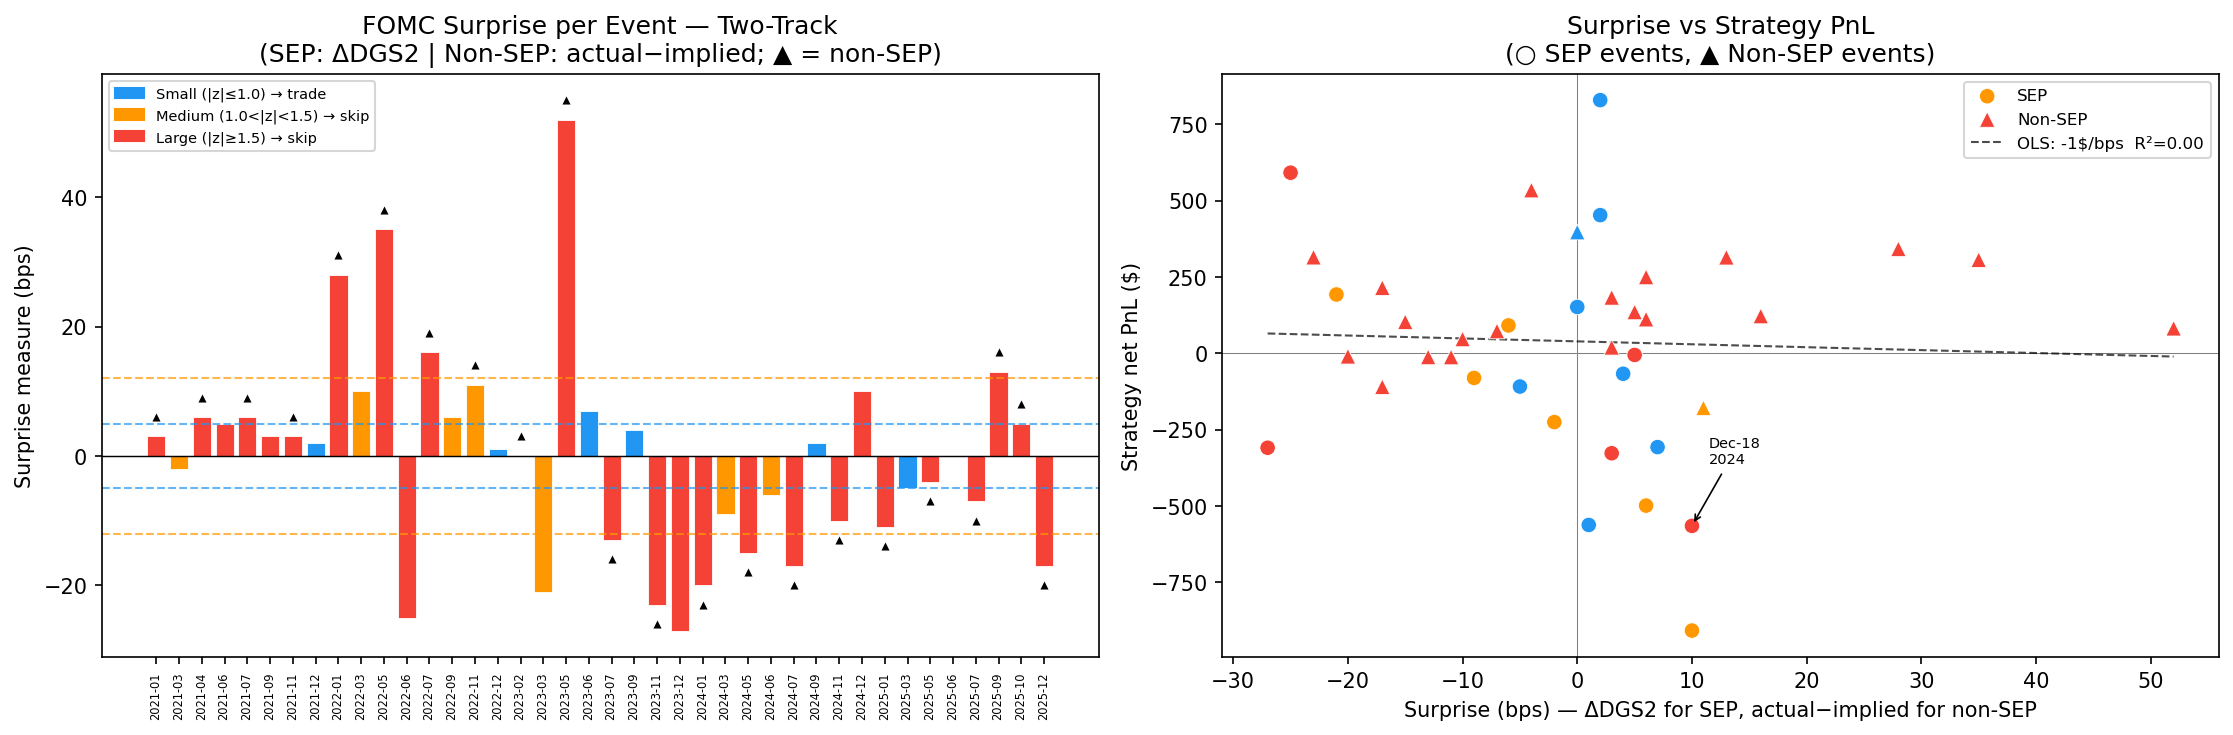
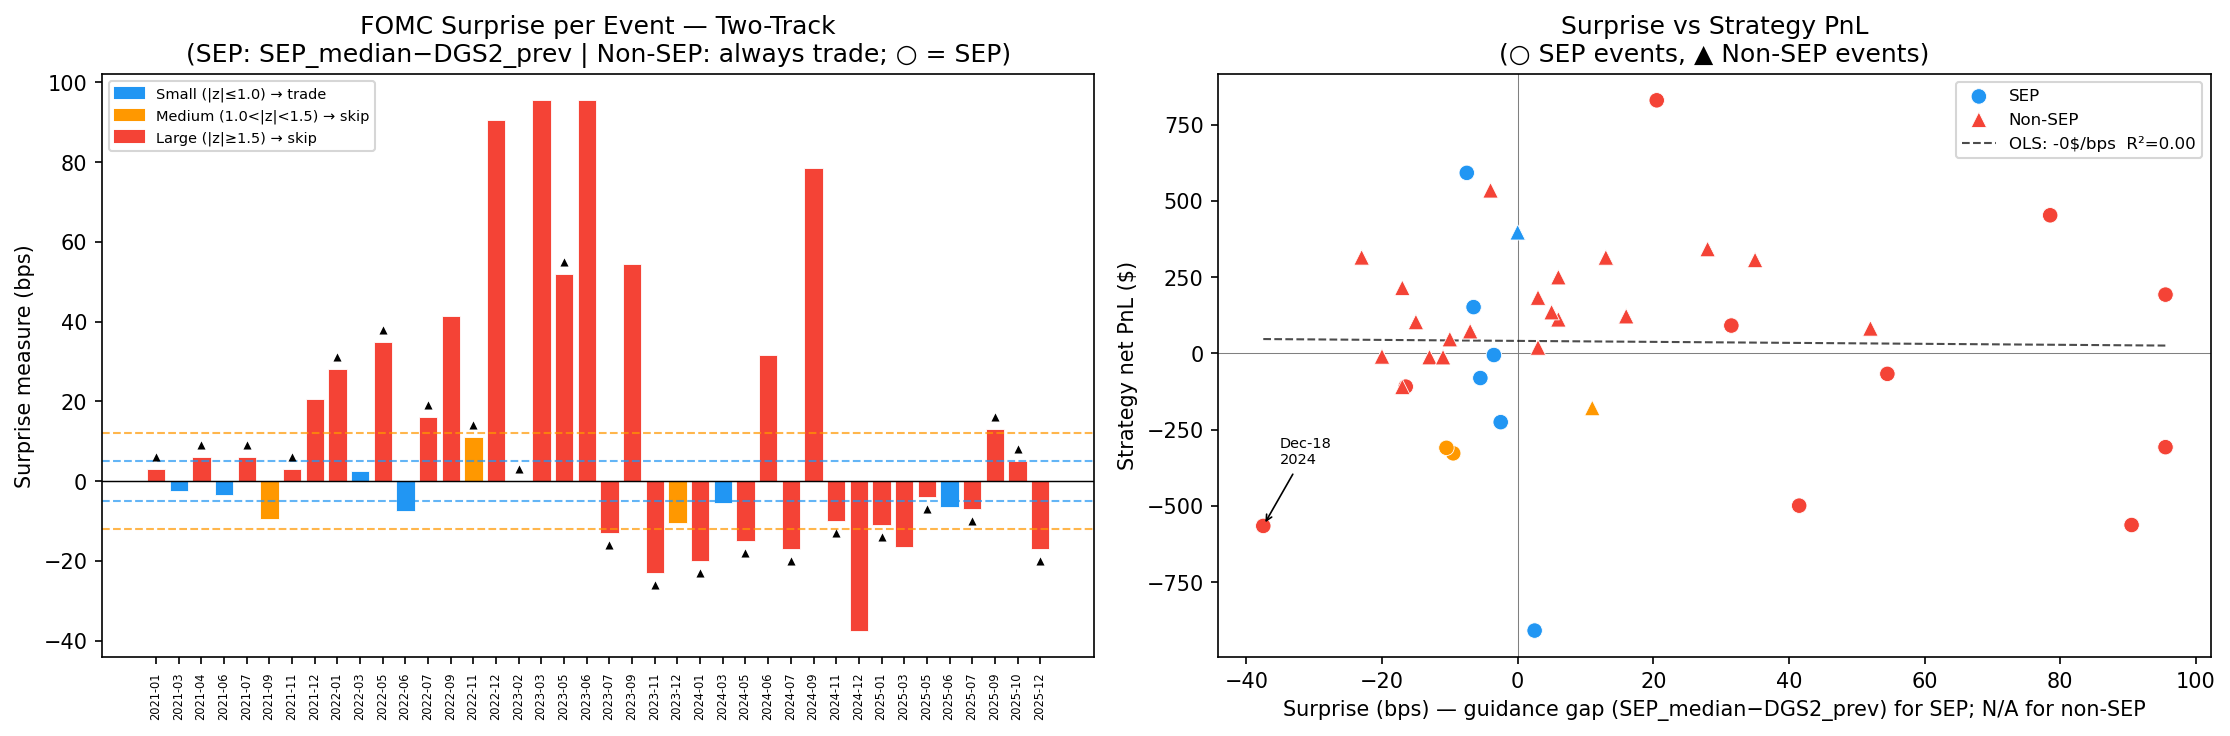
Use guidance gap (SEP_median - DGS2_prev) as real-time SEP filter
Replace delta-DGS2 with guidance gap observable at 14:01.
Delete SEP-vs-OIS methodology section; update all result numbers.
Two-track: N=28, Sharpe=1.86, p=0.073. Non-SEP: Sharpe=3.95, p=0.001.

diff --git a/FOMC/code/fomc_ois_filter.py b/FOMC/code/fomc_ois_filter.py
@@ -1,14 +1,15 @@
 """
 FOMC Rate-Path Surprise Filter — Two-Track Framework
 ======================================================
-SEP days (Mar/Jun/Sep/Dec):  z = (DGS2_fomc - DGS2_prev)*100 / roll_std_DGS2
-    DGS2 captures both the rate decision AND dot-plot forward guidance.
+SEP days (Mar/Jun/Sep/Dec):  z = (SEP_median - DGS2_prev)*100 / max(roll_std_DGS2, 8 bps)
+    SEP_median  = dot-plot year-end FFR median, released with the statement at 14:00
+    DGS2_prev   = 2Y Treasury yield at prior-day close (FRED, published ~17:00 day before)
+    Both inputs are available at 14:01 when the trade fires. DGS2_fomc (end-of-day on
+    meeting date, published 17:00) is recorded for reference but NOT used in the filter.
+    Floor of 8 bps on rolling vol prevents ZLB-era (2021) z-score inflation.
 
-Non-SEP days: z = (actual_move_bps - implied_move_bps) / roll_std_DGS1MO
-    implied_move_bps = (DGS1MO_prev - EFFR_prev) * 100
-    actual_move_bps  = rate decision from statement (available at 14:01)
-
-Both tracks use the same |z| <= 1.0 threshold to decide whether to trade.
+Non-SEP days: always trade (no filter).
+    The rate decision alone is the only new information; it is almost always fully priced.
 """
 import matplotlib
 matplotlib.use('Agg')
@@ -21,12 +22,13 @@ import urllib.request
 from pathlib import Path
 from scipy import stats
 
-Path('figures').mkdir(exist_ok=True)
+Path('FOMC/figures').mkdir(exist_ok=True)
 DATA_DIR = Path('data/raw')
 ET       = 'America/New_York'
 BOOK_COLS    = ['bid_px_00','ask_px_00','bid_sz_00','ask_sz_00']
-HOLD_MINS    = 15
-NOTIONAL     = 100_000
+HOLD_MINS      = 15
+NOTIONAL       = 100_000
+SEP_FLOOR_STD  = 8.0   # bps — floor on rolling DGS2 vol; prevents ZLB inflation
 
 # ── FOMC / Control date lists ─────────────────────────────────────────────────
 FOMC_2021 = ['2021-01-27','2021-03-17','2021-04-28','2021-06-16',
@@ -201,25 +203,30 @@ for fomc_str in ALL_FOMC:
 
     # ── Surprise measure ─────────────────────────────────────────────────────
     if fomc_str in SEP_DATES:
-        # SEP track: DGS2 change captures rate decision + dot-plot path surprise
+        # SEP track: guidance gap = SEP_median - DGS2_prev (both available at 14:01)
+        # DGS2_fomc is end-of-day (published ~17:00 on meeting date) — recorded for
+        # reference only; not used in filter to preserve real-time discipline.
         if dgs2 is not None:
             prev_idx  = dgs2.index[dgs2.index < fomc_ts]
-            fomc_rate = dgs2.get(fomc_ts, np.nan)
-            if len(prev_idx) > 0 and not np.isnan(fomc_rate):
-                prev_rate        = dgs2[prev_idx[-1]]
-                raw_bps          = (fomc_rate - prev_rate) * 100
-                vol              = roll_std_dgs2.get(fomc_ts, np.nan)
-                z_score          = raw_bps / vol if (not np.isnan(vol) and vol > 0) else np.nan
-                rec['dgs2_prev']     = round(prev_rate, 3)
-                rec['dgs2_fomc']     = round(fomc_rate, 3)
-                rec['surprise_bps']  = round(raw_bps, 1)
-                rec['roll_std_bps']  = round(vol, 2) if not np.isnan(vol) else np.nan
-                rec['z_score']       = round(z_score, 2) if not np.isnan(z_score) else np.nan
+            fomc_rate = dgs2.get(fomc_ts, np.nan)   # informational only
+            if len(prev_idx) > 0:
+                prev_rate  = dgs2[prev_idx[-1]]
+                sep_median = SEP_DATA[fomc_str]
+                raw_bps    = (sep_median - prev_rate) * 100   # guidance gap, bps
+                vol_raw    = roll_std_dgs2.get(prev_idx[-1], np.nan)  # prev-day vol
+                vol        = max(vol_raw, SEP_FLOOR_STD) if not np.isnan(vol_raw) else SEP_FLOOR_STD
+                z_score    = raw_bps / vol
+                rec['dgs2_prev']    = round(prev_rate, 3)
+                rec['dgs2_fomc']    = round(fomc_rate, 3) if not np.isnan(fomc_rate) else np.nan
+                rec['sep_median']   = round(sep_median, 3)
+                rec['surprise_bps'] = round(raw_bps, 1)
+                rec['roll_std_bps'] = round(vol, 2)
+                rec['z_score']      = round(z_score, 2)
             else:
-                for k in ['dgs2_prev','dgs2_fomc','surprise_bps','roll_std_bps','z_score']:
+                for k in ['dgs2_prev','dgs2_fomc','sep_median','surprise_bps','roll_std_bps','z_score']:
                     rec[k] = np.nan
         else:
-            for k in ['dgs2_prev','dgs2_fomc','surprise_bps','roll_std_bps','z_score']:
+            for k in ['dgs2_prev','dgs2_fomc','sep_median','surprise_bps','roll_std_bps','z_score']:
                 rec[k] = np.nan
     else:
         # Non-SEP track: target surprise = actual_move - implied_move
@@ -275,17 +282,17 @@ df['date'] = pd.to_datetime(df['date'])
 
 # Ensure all expected columns exist
 for c in ['net_pnl','gross_pnl','tc','ret_14','surprise_bps','dgs2_prev','dgs2_fomc',
-          'dgs1mo_prev','effr_prev','implied_move_bps','actual_move_bps',
+          'sep_median','dgs1mo_prev','effr_prev','implied_move_bps','actual_move_bps',
           'roll_std_bps','z_score']:
     if c not in df.columns:
         df[c] = np.nan
 
 
 # ── 3. Classify events ────────────────────────────────────────────────────────
-Z_SMALL  = 1.0
-Z_LARGE  = 1.5
-THRESH_SMALL  = 5.0
-THRESH_MEDIUM = 12.0
+Z_SMALL        = 1.0
+Z_LARGE        = 1.5
+THRESH_SMALL   = 5.0
+THRESH_MEDIUM  = 12.0
 
 def classify(row):
     z = row.get('z_score', np.nan)
@@ -404,7 +411,7 @@ for i, (_, r) in enumerate(df.iterrows()):
 ax.set_xticks(list(x))
 ax.set_xticklabels([d[:7] for d in df['date'].dt.strftime('%Y-%m-%d')], rotation=90, fontsize=5.5)
 ax.set_ylabel('Surprise measure (bps)')
-ax.set_title('FOMC Surprise per Event — Two-Track\n(SEP: ΔDGS2 | Non-SEP: actual−implied; ▲ = non-SEP)')
+ax.set_title('FOMC Surprise per Event — Two-Track\n(SEP: SEP_median−DGS2_prev | Non-SEP: always trade; ○ = SEP)')
 patches = [
     mpatches.Patch(color='#2196F3', label=f'Small (|z|≤{Z_SMALL}) → trade'),
     mpatches.Patch(color='#FF9800', label=f'Medium ({Z_SMALL}<|z|<{Z_LARGE}) → skip'),
@@ -438,7 +445,7 @@ if mask.sum() > 5:
                      xy=(d18_row['surprise_bps'].values[0], d18_row['net_pnl'].values[0]),
                      xytext=(8, 30), textcoords='offset points', fontsize=7,
                      arrowprops=dict(arrowstyle='->', lw=0.8))
-    ax2.set_xlabel('Surprise (bps) — ΔDGS2 for SEP, actual−implied for non-SEP')
+    ax2.set_xlabel('Surprise (bps) — guidance gap (SEP_median−DGS2_prev) for SEP; N/A for non-SEP')
     ax2.set_ylabel('Strategy net PnL ($)')
     ax2.set_title('Surprise vs Strategy PnL\n(○ SEP events, ▲ Non-SEP events)')
     ax2.legend(fontsize=8)
@@ -448,16 +455,16 @@ else:
     ax2.set_title('Surprise vs PnL')
 
 plt.tight_layout()
-plt.savefig('figures/fomc_ois_surprise.png', dpi=150, bbox_inches='tight')
+plt.savefig('FOMC/figures/fomc_ois_surprise.png', dpi=150, bbox_inches='tight')
 plt.close()
-print('\nFigure saved: figures/fomc_ois_surprise.png')
+print('\nFigure saved: FOMC/figures/fomc_ois_surprise.png')
 
 # ── Save CSV ──────────────────────────────────────────────────────────────────
 col_order = ['date','year','regime','surprise_type',
-             'dgs2_prev','dgs2_fomc',
+             'dgs2_prev','sep_median','dgs2_fomc',
              'dgs1mo_prev','effr_prev','implied_move_bps','actual_move_bps',
              'surprise_bps','roll_std_bps','z_score','signal_class',
              'ret_14','gross_pnl','tc','net_pnl']
 out_cols = [c for c in col_order if c in df.columns]
-df[out_cols].to_csv('fomc_surprise_table.csv', index=False)
-print('Table saved: fomc_surprise_table.csv')
+df[out_cols].to_csv('FOMC/fomc_surprise_table.csv', index=False)
+print('Table saved: FOMC/fomc_surprise_table.csv')

diff --git a/FOMC/code/generate_fomc_report.py b/FOMC/code/generate_fomc_report.py
@@ -14,7 +14,7 @@ from scipy import stats
 FIG_DIR = Path('figures')
 FIG_DIR.mkdir(exist_ok=True)
 
-df = pd.read_csv('fomc_surprise_table.csv', parse_dates=['date'])
+df = pd.read_csv('FOMC/fomc_surprise_table.csv', parse_dates=['date'])
 
 # ── Hardcoded summary stats from the pipeline ─────────────────────────────────
 SPREAD_RATIOS = {